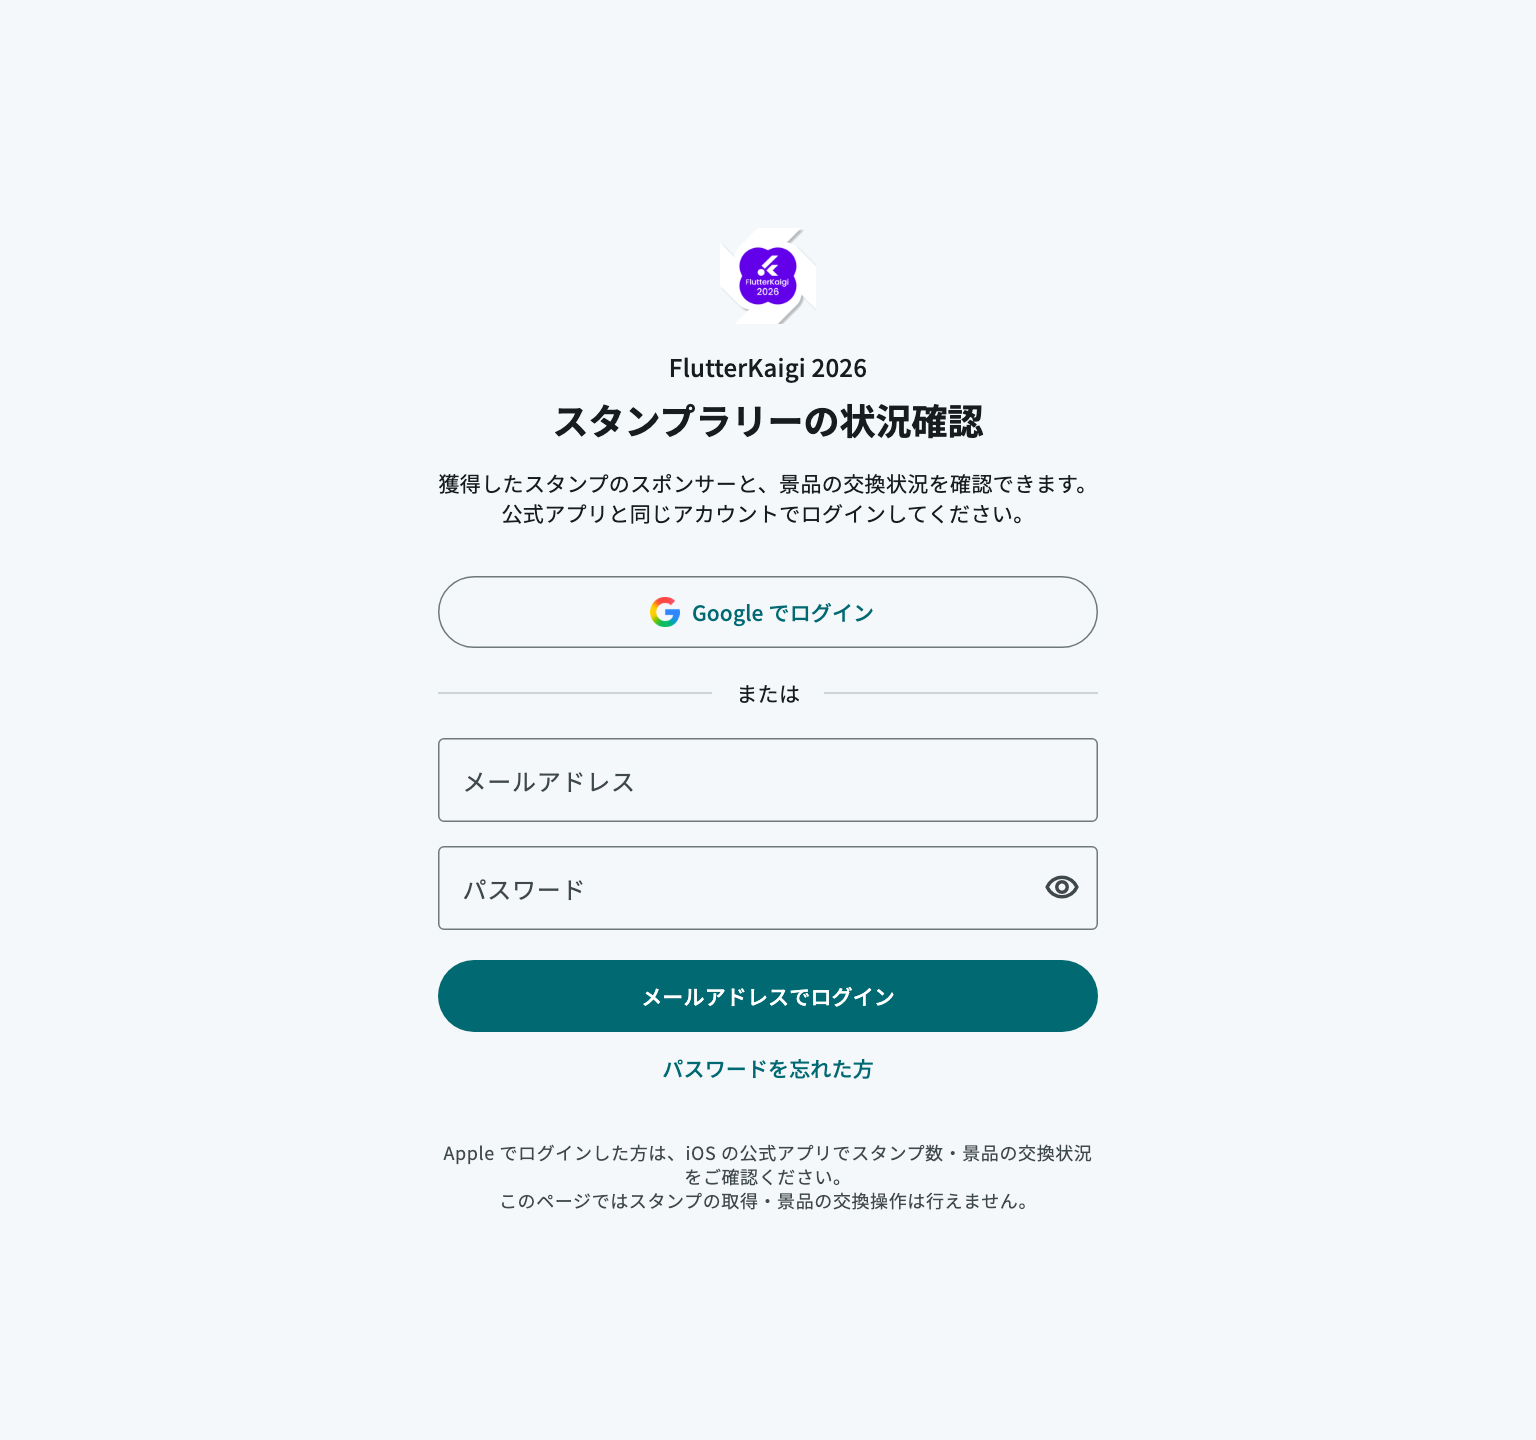
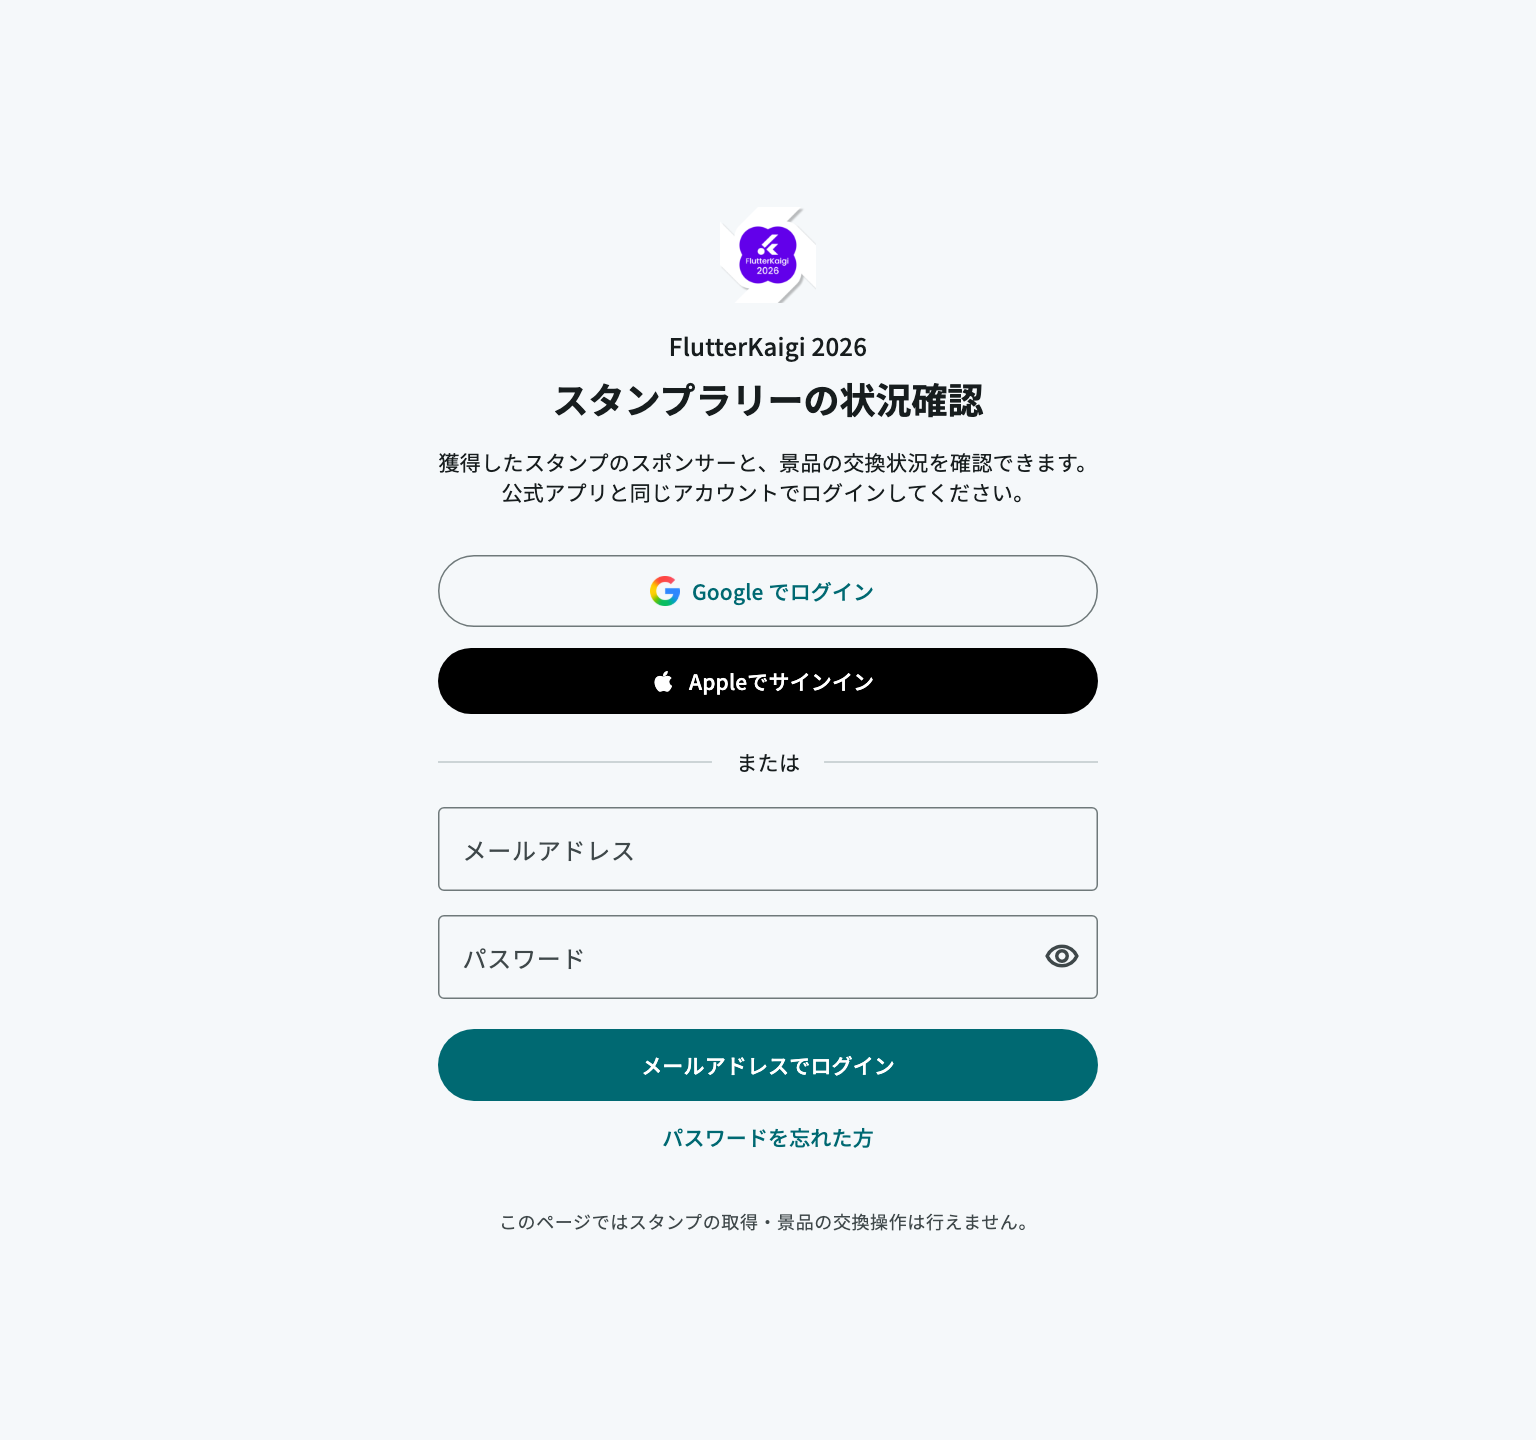
fix: enable Apple sign-in in stamp rally viewer

diff --git a/apps/stamp_rally_viewer/test/app_test.dart b/apps/stamp_rally_viewer/test/app_test.dart
@@ -1,3 +1,5 @@
+import 'dart:async';
+
 import 'package:data/data.dart';
 import 'package:data/user.dart';
 import 'package:flutter/material.dart';
@@ -51,6 +53,7 @@ void main() {
       await tester.pumpAndSettle();
 
       expect(find.text('Google でログイン'), findsOneWidget);
+      expect(find.text('Appleでサインイン'), findsOneWidget);
       expect(find.text('ログアウト'), findsNothing);
       expect(stamps.watchedUids, isEmpty);
       expect(sponsors.excludesUnsupportedTiers, isEmpty);
@@ -68,6 +71,73 @@ void main() {
     expect(find.text('attendee@example.com'), findsOneWidget);
     expect(find.text('Google でログイン'), findsNothing);
   });
+
+  testWidgets('Apple login reads the existing account history using its UID even with a relay email', (tester) async {
+    auth.appleUser = FakeUser(uid: 'existing-apple-attendee', email: 'attendee@privaterelay.appleid.com');
+    stamps.cards['existing-apple-attendee'] = StampRallyCard(
+      stamps: {'s1': DateTime.utc(2026, 11, 13)},
+      rewardsRedeemedAt: {1: DateTime.utc(2026, 11, 13, 1)},
+    );
+    await tester.pumpWidget(subject());
+    await tester.pumpAndSettle();
+
+    await tapText(tester, 'Appleでサインイン');
+
+    expect(auth.calls, ['apple']);
+    expect(stamps.watchedUids, ['existing-apple-attendee']);
+    expect(find.text('スポンサー A'), findsOneWidget);
+    expect(find.text('交換済み · 2026/11/13 10:00'), findsOneWidget);
+    expect(find.text('Appleでサインイン'), findsNothing);
+  });
+
+  testWidgets('pending Apple login disables other login actions and does not read private histories', (tester) async {
+    auth.appleSignInGate = Completer<void>();
+    await tester.pumpWidget(subject());
+    await tester.pumpAndSettle();
+
+    await tester.tap(find.text('Appleでサインイン'));
+    await tester.pump();
+
+    expect(auth.calls, ['apple']);
+    expect(stamps.watchedUids, isEmpty);
+    expect(find.byType(LinearProgressIndicator), findsOneWidget);
+    for (final label in ['Google でログイン', 'Appleでサインイン', 'メールアドレスでログイン', 'パスワードを忘れた方']) {
+      final button = tester.widget<ButtonStyleButton>(
+        find.ancestor(of: find.text(label), matching: find.bySubtype<ButtonStyleButton>()),
+      );
+      expect(button.onPressed, isNull);
+    }
+
+    auth.appleSignInGate!.complete();
+    await tester.pumpAndSettle();
+    expect(stamps.watchedUids, ['attendee']);
+  });
+
+  for (final error in {
+    'popup-closed-by-user': null,
+    'popup-blocked': 'ブラウザのポップアップを許可して、再度ログインしてください。',
+    'invalid-credential': 'ログイン情報を確認して、再度お試しください。',
+  }.entries) {
+    testWidgets('Apple ${error.key} allows retry without reading private histories', (tester) async {
+      auth.nextError = FirebaseAuthException(code: error.key);
+      await tester.pumpWidget(subject());
+      await tester.pumpAndSettle();
+
+      await tapText(tester, 'Appleでサインイン');
+
+      expect(stamps.watchedUids, isEmpty);
+      expect(find.byType(LinearProgressIndicator), findsNothing);
+      expect(find.text('ログイン処理に失敗しました。時間をおいて再試行してください。'), findsNothing);
+      if (error.value case final message?) {
+        expect(find.text(message), findsOneWidget);
+      }
+
+      await tapText(tester, 'Appleでサインイン');
+
+      expect(auth.calls, ['apple', 'apple']);
+      expect(stamps.watchedUids, ['attendee']);
+    });
+  }
 
   testWidgets('email login trims the address while preserving the password', (tester) async {
     await tester.pumpWidget(subject());

diff --git a/packages/data/test/auth_repository_web_test.dart b/packages/data/test/auth_repository_web_test.dart
@@ -65,6 +65,58 @@ void main() {
     expect(auth.providers, hasLength(1));
   });
 
+  for (final platform in [TargetPlatform.iOS, TargetPlatform.android, TargetPlatform.macOS]) {
+    test('Apple sign-in immediately opens a popup and awaits completion in a ${platform.name} browser', () async {
+      debugDefaultTargetPlatformOverride = platform;
+      auth.signInGate = Completer<UserCredential>();
+      var completed = false;
+
+      final signIn = repository.signInWithApple().then((_) => completed = true);
+
+      final provider = auth.providers.single as AppleAuthProvider;
+      expect(provider.providerId, AppleAuthProvider.PROVIDER_ID);
+      expect(provider.scopes, ['email', 'name']);
+      await Future<void>.delayed(Duration.zero);
+      expect(completed, isFalse);
+
+      auth.signInGate!.complete(_UserCredential());
+      await signIn;
+      expect(completed, isTrue);
+    });
+  }
+
+  for (final code in ['popup-closed-by-user', 'popup-blocked']) {
+    test('Apple $code errors retain the Firebase error contract', () async {
+      final failure = FirebaseAuthException(code: code);
+      auth.signInError = failure;
+
+      await expectLater(repository.signInWithApple(), throwsA(same(failure)));
+
+      expect(auth.providers.single, isA<AppleAuthProvider>());
+    });
+  }
+
+  for (final providerIds in [
+    [AppleAuthProvider.PROVIDER_ID],
+    [GoogleAuthProvider.PROVIDER_ID, AppleAuthProvider.PROVIDER_ID],
+  ]) {
+    test('deleting an account with $providerIds still requires the native iOS app', () async {
+      debugDefaultTargetPlatformOverride = TargetPlatform.iOS;
+      final user = _User(providerIds);
+      auth.currentUser = user;
+
+      await expectLater(
+        repository.deleteAccount(beforeDelete: () async => user.events.add('beforeDelete')),
+        throwsA(isA<FirebaseAuthException>().having((error) => error.code, 'code', 'apple-token-revocation-failed')),
+      );
+
+      expect(user.events, isEmpty);
+      expect(user.providers, isEmpty);
+      expect(auth.providers, isEmpty);
+      expect(auth.currentUser, same(user));
+    });
+  }
+
   test('account deletion waits for popup reauthentication before deleting user data and the account', () async {
     final user = _User()..reauthenticationGate = Completer<UserCredential>();
     auth.currentUser = user;
@@ -159,8 +211,12 @@ class _Auth extends Fake implements FirebaseAuth {
 }
 
 class _User extends Fake implements User {
+  _User([List<String>? providerIds]) : providerIds = providerIds ?? [GoogleAuthProvider.PROVIDER_ID];
+
+  final List<String> providerIds;
+
   @override
-  List<UserInfo> get providerData => [_UserInfo(GoogleAuthProvider.PROVIDER_ID)];
+  List<UserInfo> get providerData => providerIds.map(_UserInfo.new).toList();
 
   final providers = <AuthProvider>[];
   final events = <String>[];

diff --git a/apps/stamp_rally_viewer/lib/login_page.dart b/apps/stamp_rally_viewer/lib/login_page.dart
@@ -103,6 +103,17 @@ class _LoginPageState extends ConsumerState<LoginPage> {
                     icon: Image.asset('assets/g-logo.png', width: 20, height: 20, excludeFromSemantics: true),
                     label: const Text('Google でログイン'),
                   ),
+                  const SizedBox(height: 12),
+                  FilledButton.icon(
+                    onPressed: _busy ? null : () => _run(ref.read(authRepositoryProvider).signInWithApple),
+                    style: FilledButton.styleFrom(
+                      backgroundColor: theme.brightness == Brightness.dark ? Colors.white : Colors.black,
+                      foregroundColor: theme.brightness == Brightness.dark ? Colors.black : Colors.white,
+                      minimumSize: const Size.fromHeight(44),
+                    ),
+                    icon: const ExcludeSemantics(child: Icon(Icons.apple)),
+                    label: const Text('Appleでサインイン'),
+                  ),
                   const Padding(
                     padding: EdgeInsets.symmetric(vertical: 20),
                     child: Row(
@@ -170,7 +181,7 @@ class _LoginPageState extends ConsumerState<LoginPage> {
                     ),
                   const SizedBox(height: 24),
                   Text(
-                    'Apple でログインした方は、iOS の公式アプリでスタンプ数・景品の交換状況をご確認ください。\nこのページではスタンプの取得・景品の交換操作は行えません。',
+                    'このページではスタンプの取得・景品の交換操作は行えません。',
                     textAlign: TextAlign.center,
                     style: theme.textTheme.bodySmall?.copyWith(color: theme.colorScheme.onSurfaceVariant),
                   ),
@@ -187,7 +198,8 @@ class _LoginPageState extends ConsumerState<LoginPage> {
 String? authErrorMessage(FirebaseAuthException error) => switch (error.code) {
   'popup-closed-by-user' || 'cancelled-popup-request' || 'canceled' => null,
   'invalid-email' => 'メールアドレスの形式を確認してください。',
-  'invalid-credential' || 'user-not-found' || 'wrong-password' => 'メールアドレスまたはパスワードが正しくありません。',
+  'invalid-credential' => 'ログイン情報を確認して、再度お試しください。',
+  'user-not-found' || 'wrong-password' => 'メールアドレスまたはパスワードが正しくありません。',
   'user-disabled' => 'このアカウントは無効になっています。',
   'too-many-requests' => '操作が集中しています。しばらく待ってから再試行してください。',
   'network-request-failed' => '通信に失敗しました。ネットワーク接続を確認してください。',

diff --git a/packages/data/lib/src/repository/auth_repository.dart b/packages/data/lib/src/repository/auth_repository.dart
@@ -58,10 +58,10 @@ final class FirebaseAuthRepository implements AuthRepository {
 
   @override
   Future<void> signInWithApple() {
-    if (kIsWeb || defaultTargetPlatform != TargetPlatform.iOS) {
-      throw UnsupportedError('AppleサインインはiOSでのみ利用できます');
+    if (!kIsWeb && defaultTargetPlatform != TargetPlatform.iOS) {
+      throw UnsupportedError('AppleサインインはiOSとWebでのみ利用できます');
     }
-    return _auth.signInWithProvider(_appleProvider());
+    return _signInWithOAuth(_appleProvider());
   }
 
   GoogleAuthProvider _googleProvider() {
@@ -108,8 +108,8 @@ final class FirebaseAuthRepository implements AuthRepository {
     return GoogleAuthProvider.credential(idToken: idToken);
   });
 
-  /// GoogleはWebではポップアップ、iOSとAndroidのAuth Emulatorでは
-  /// signInWithProviderでサインインする。
+  /// OAuth は Web ではポップアップ、対応するモバイル環境では
+  /// signInWithProvider でサインインする。
   ///
   /// Auth Emulator接続時は全プラットフォームでEmulatorの擬似IdP画面が
   /// 開く。
@@ -159,7 +159,6 @@ final class FirebaseAuthRepository implements AuthRepository {
     final providerIds = user.providerData.map((info) => info.providerId).toSet();
     final usesApple = providerIds.contains(AppleAuthProvider.PROVIDER_ID);
     if (usesApple && (kIsWeb || defaultTargetPlatform != TargetPlatform.iOS)) {
-      // Web / Android のApple OAuthを開始するとServices IDが必要になる。
       // Apple連携済みアカウントの削除とトークン失効はiOSからだけ行う。
       throw FirebaseAuthException(
         code: 'apple-token-revocation-failed',

diff --git a/packages/data/test/auth_repository_test.dart b/packages/data/test/auth_repository_test.dart
@@ -244,6 +244,18 @@ void main() {
     expect(google.events, isEmpty);
   });
 
+  for (final platform in TargetPlatform.values.where((platform) => platform != TargetPlatform.iOS)) {
+    test('native ${platform.name} Apple sign-in remains unsupported', () {
+      debugDefaultTargetPlatformOverride = platform;
+
+      expect(repository.signInWithApple, throwsA(isA<UnsupportedError>()));
+
+      expect(auth.providers, isEmpty);
+      expect(auth.credentials, isEmpty);
+      expect(google.events, isEmpty);
+    });
+  }
+
   test('iOS linked Google and Apple account deletion waits for both reauthentication and Apple revocation', () async {
     debugDefaultTargetPlatformOverride = TargetPlatform.iOS;
     final user = _User(

diff --git a/apps/stamp_rally_viewer/test/fake_repositories.dart b/apps/stamp_rally_viewer/test/fake_repositories.dart
@@ -30,6 +30,8 @@ class FakeAuthRepository extends Fake implements AuthRepository {
   String? lastEmail;
   String? lastPassword;
   String? lastResetEmail;
+  User appleUser = FakeUser();
+  Completer<void>? appleSignInGate;
 
   @override
   User? get currentUser => _user;
@@ -56,6 +58,14 @@ class FakeAuthRepository extends Fake implements AuthRepository {
     calls.add('google');
     _checkError();
     setUser(FakeUser());
+  }
+
+  @override
+  Future<void> signInWithApple() async {
+    calls.add('apple');
+    _checkError();
+    await appleSignInGate?.future;
+    setUser(appleUser);
   }
 
   @override
